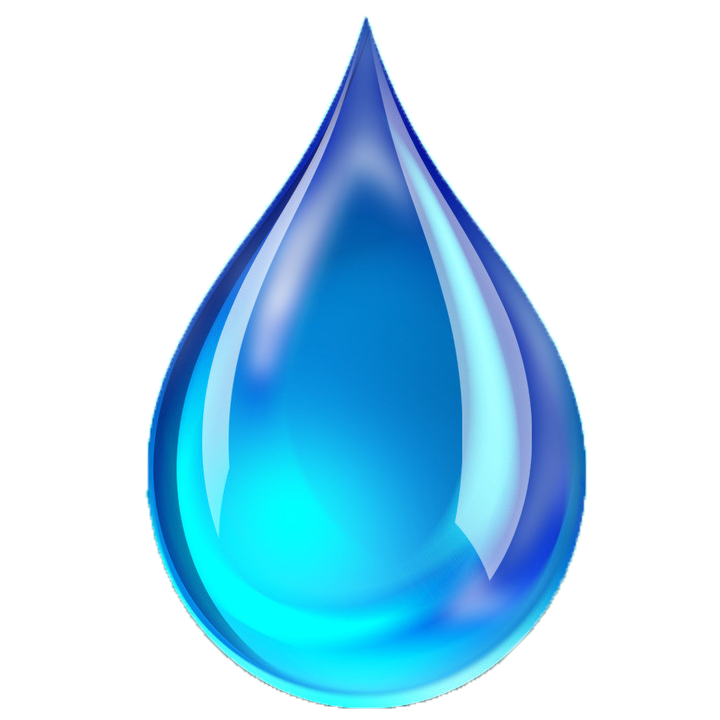
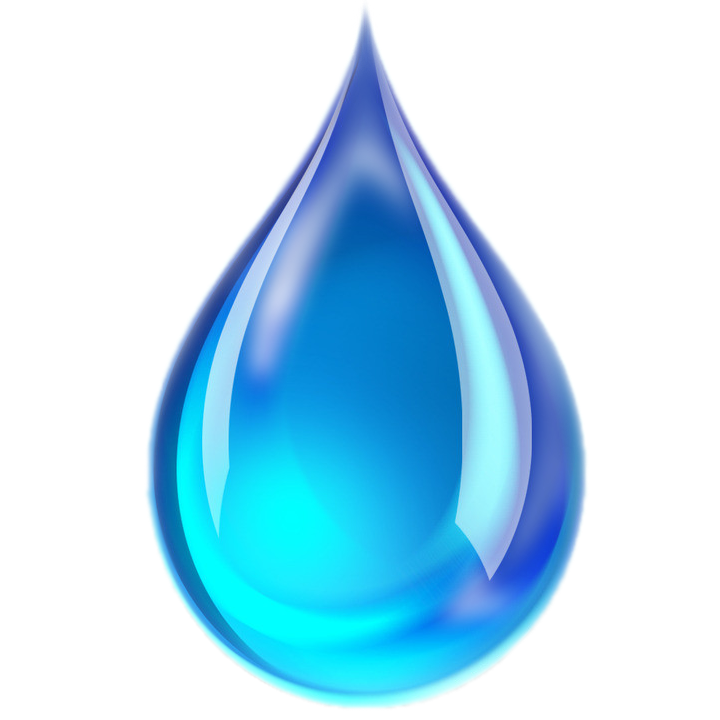
beautify character and element images

diff --git a/game_demo.html b/game_demo.html
@@ -123,9 +123,6 @@
 					</div>
 				</div>
 			</div>
-
-
-
 			<!--.nav-collapse -->
 
 		</div>
@@ -137,7 +134,7 @@
 					<div class="shadowbox land">
 						<div class="row">
 							<div class="col-md-12">
-								<div><img src="images/land/land_element2.jpg" class="img-responsive" id="com2"></div>
+								<div><img src="images/land/land_element2.png" class="img-responsive" id="com2"></div>
 							</div>
 						</div>
 						<div class="row">
@@ -149,20 +146,16 @@
 					</div>
 				</div>
 				<div class="row player-panel">
-					<div class="col-md-12">
-						<div class="col-md-12">
-							<div class="shadowbox wind">
-								<div class="row">
-									<div class="col-md-12">
-										<div><img src="images/wind/wind_element2.jpg" class="img-responsive" id="com3"></div>
-									</div>
-								</div>
-								<div class="row">
-									<div class="col-md-7"><img src="images/wind/wind_cell.png" class="cell"><span id="com3Num" class="cutetext"></span></div>
-									<div class="col-md-5">
-										<button class="btn btn-success" id="com3dis">发散</button>
-									</div>
-								</div>
+					<div class="shadowbox wind">
+						<div class="row">
+							<div class="col-md-12">
+								<div><img src="images/wind/wind_element2.png" class="img-responsive" id="com3"></div>
+							</div>
+						</div>
+						<div class="row">
+							<div class="col-md-7"><img src="images/wind/wind_cell.png" class="cell"><span id="com3Num" class="cutetext"></span></div>
+							<div class="col-md-5">
+								<button class="btn btn-success" id="com3dis">发散</button>
 							</div>
 						</div>
 					</div>
@@ -173,35 +166,31 @@
 			</div>
 			<div class="col-md-3">
 				<div class="row player-panel">
-					<div class="col-md-12">
-						<div class="shadowbox water">
-							<div class="row">
-								<div class="col-md-12">
-									<div><img src="images/water/water_element2.jpg" class="img-responsive" id="com1"></div>
-								</div>
+					<div class="shadowbox water">
+						<div class="row">
+							<div class="col-md-12">
+								<div><img src="images/water/water_element2.png" class="img-responsive" id="com1"></div>
 							</div>
-							<div class="row">
-								<div class="col-md-7"><img src="images/water/water_cell.png" class="cell"><span id="com1Num" class="cutetext"></span></div>
-								<div class="col-md-5">
-									<button class="btn btn-success" id="com1dis">发散</button>
-								</div>
+						</div>
+						<div class="row">
+							<div class="col-md-7"><img src="images/water/water_cell.png" class="cell"><span id="com1Num" class="cutetext"></span></div>
+							<div class="col-md-5">
+								<button class="btn btn-success" id="com1dis">发散</button>
 							</div>
 						</div>
 					</div>
 				</div>
 				<div class="row player-panel">
-					<div class="col-md-12">
-						<div class="shadowbox fire">
-							<div class="row">
-								<div class="col-md-12">
-									<div id="player1"><img src="images/fire/fire_element2.jpg" class="img-responsive"></div>
-								</div>
+					<div class="shadowbox fire">
+						<div class="row">
+							<div class="col-md-12">
+								<div id="player1"><img src="images/fire/fire_element2.png" class="img-responsive"></div>
 							</div>
-							<div class="row">
-								<div class="col-md-7"><img src="images/fire/fire_cell.png" class="cell"><span id="player1Num" class="cutetext"></span></div>
-								<div class="col-md-5">
-									<button class="btn btn-success" id="player1dis">发散</button>
-								</div>
+						</div>
+						<div class="row">
+							<div class="col-md-7"><img src="images/fire/fire_cell.png" class="cell"><span id="player1Num" class="cutetext"></span></div>
+							<div class="col-md-5">
+								<button class="btn btn-success" id="player1dis">发散</button>
 							</div>
 						</div>
 					</div>
